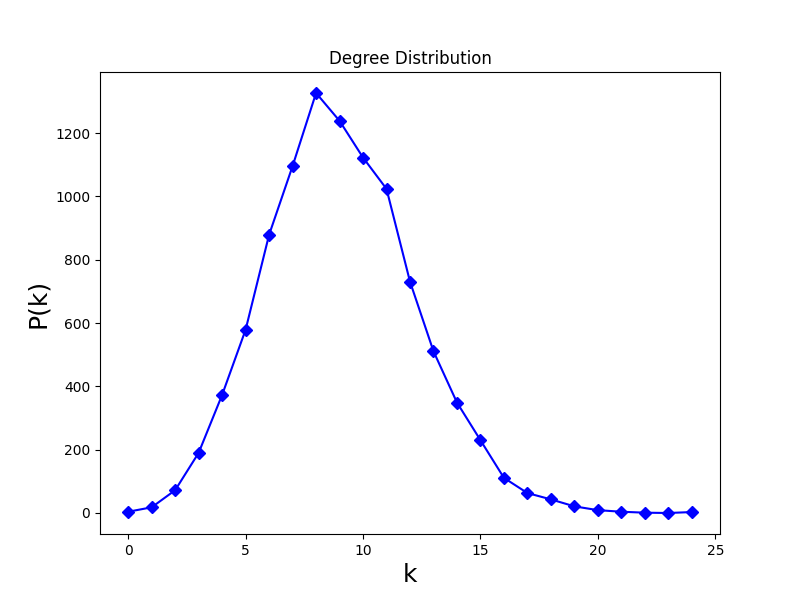
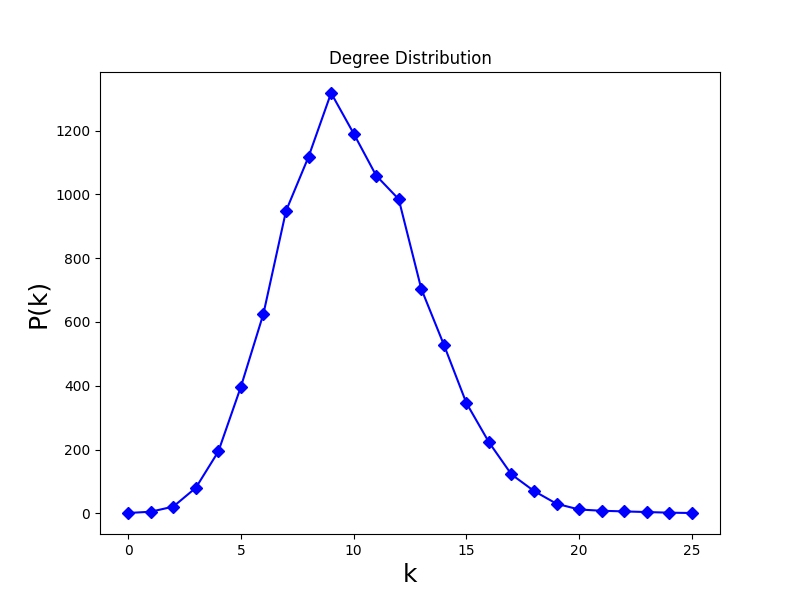
2 3

diff --git a/Networks2/er.py b/Networks2/er.py
@@ -38,19 +38,17 @@ def create_er(n: int, p: float):
     arr: list[int] = []
 
     for k in ks:
-        k_index: int = k - 1
-
-        if k > len(arr):
-            arr0: list[int] = [0] * k
+        if k >= len(arr):
+            arr0: list[int] = [0] * (k + 1)
 
             for i in range(len(arr)):
                 arr0[i] = arr[i]
 
             arr = arr0
 
-        arr[k_index] += 1
+        arr[k] += 1
 
-        print(f"k={k}, P(k)={arr[k_index]}")
+        print(f"k={k}, P(k)={arr[k]}")
 
     plt.figure(figsize=(8, 6))
 
@@ -58,6 +56,12 @@ def create_er(n: int, p: float):
     ys = [arr[k] for k in range(len(arr))]
 
     plt.plot(xs, ys, "-bD")
+
+    poisson_lambda: float = n * p
+    poisson_arr: list[float] = [0] * len(arr)
+
+    for k in range(len(poisson_arr)):
+        poisson_arr[k] = 0
 
     plt.xlabel("k", fontsize=18)
     plt.ylabel("P(k)", fontsize=18)
